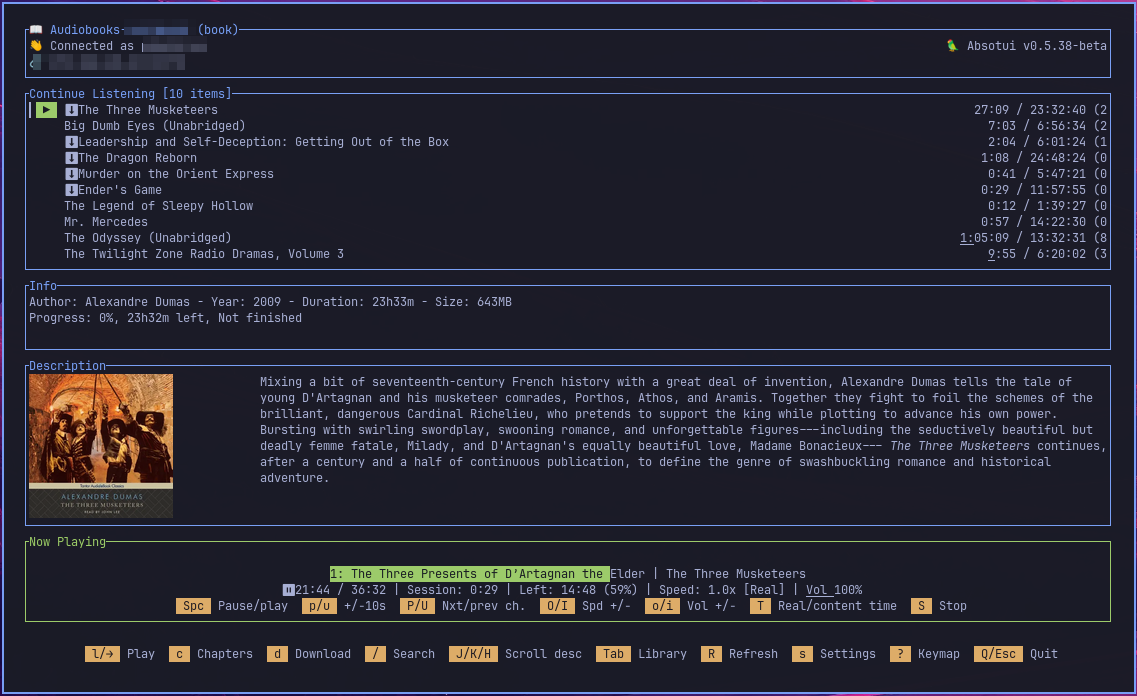
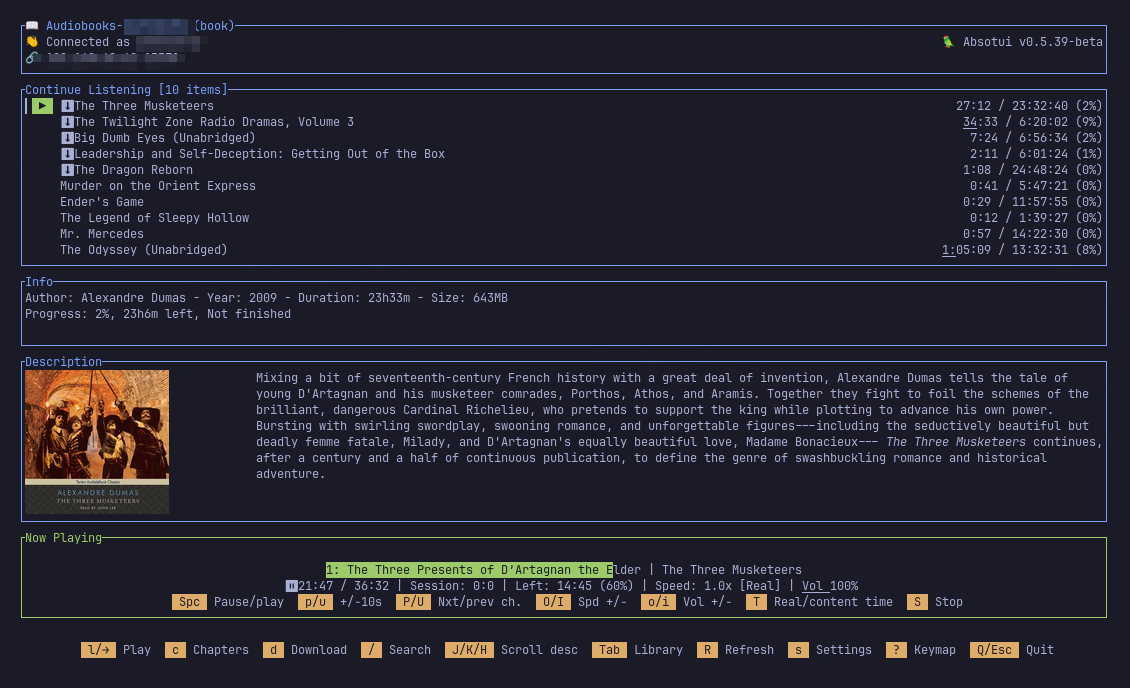
Update README screenshot and Recent work for v0.5.39

Changed region(s): [[0.0, 0.0, 1.0, 1.0]]

diff --git a/README.md b/README.md
@@ -148,7 +148,7 @@ Files installed — same as above (`.env`, `config.toml`, `absotui.log`, `db.sql
 ---
 
 ## 🛠 Roadmap
-Recent work: audiobooks split across multiple files now play, navigate chapters, and download correctly across every file, not just the first; app startup with a large podcast library is dramatically faster (roughly 17s down to 4-5s); a more reliable playback session lifecycle (quitting, switching tracks, and recovering from a crash all sync and close sessions correctly); and a UI refresh — terminal-native theming, bordered/labeled sections, curated footers, and a full keymap reference (`?`) on every screen.
+Recent work: audiobooks split across multiple files now play, navigate chapters, and download correctly across every file, not just the first; app startup with a large podcast library is dramatically faster (roughly 17s down to 4-5s); a more reliable playback session lifecycle (quitting, switching tracks, and recovering from a crash all sync and close sessions correctly); a UI refresh — terminal-native theming, bordered/labeled sections, curated footers, and a full keymap reference (`?`) on every screen; and the search box (`/`) rebuilt to render as a normal part of the screen instead of a separate window, fixing display glitches around cover art and the Now Playing bar.
 
 **Under consideration:**
 - Playlist/Collections view
